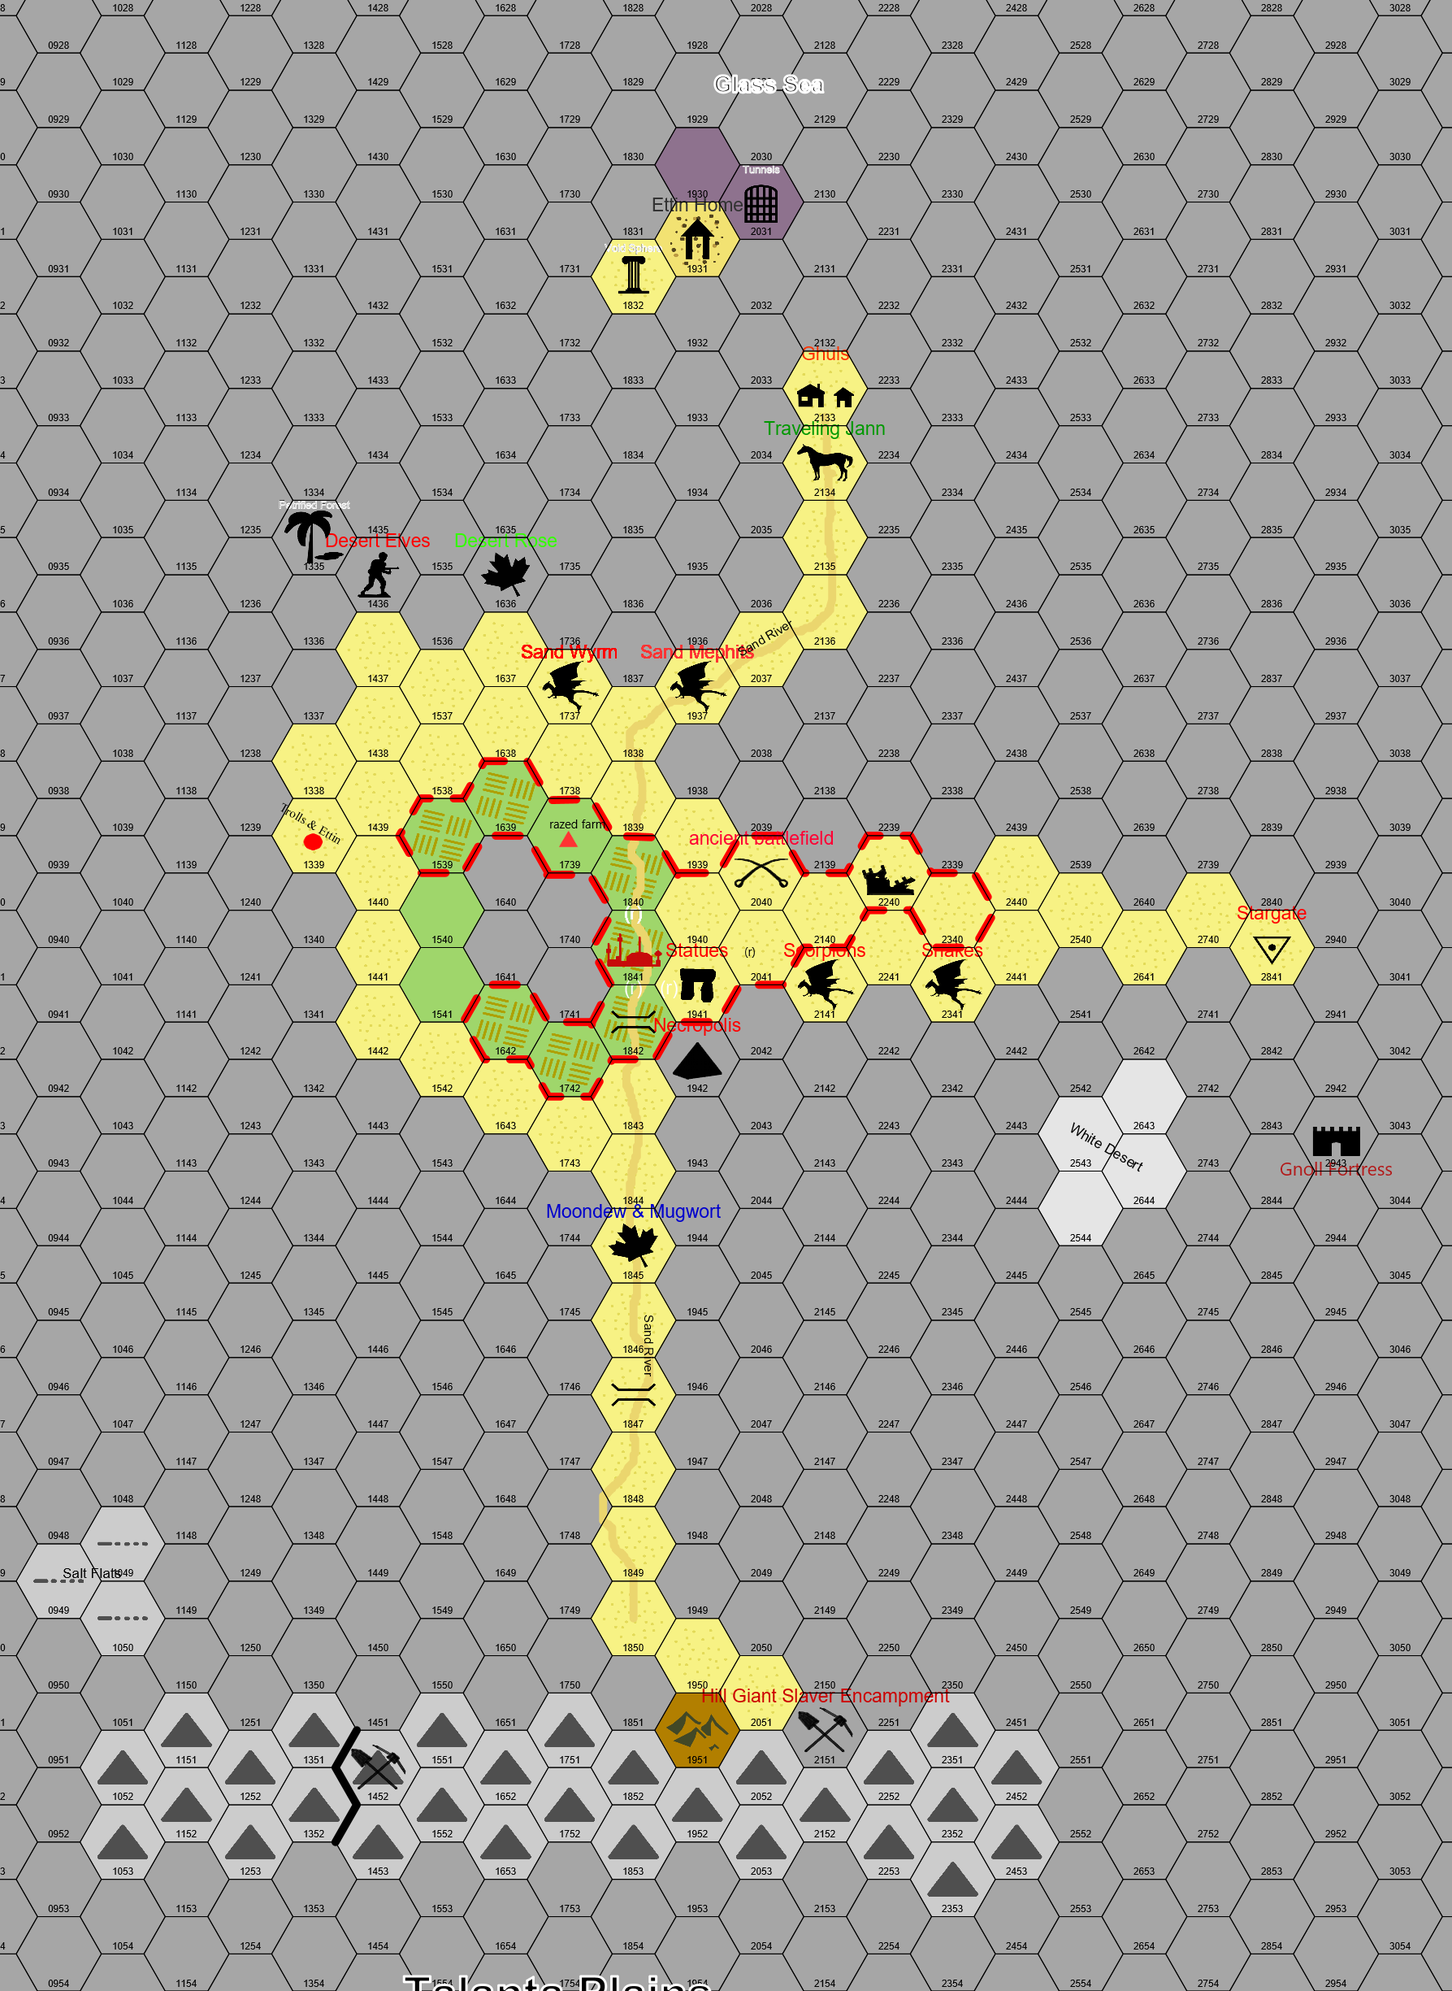
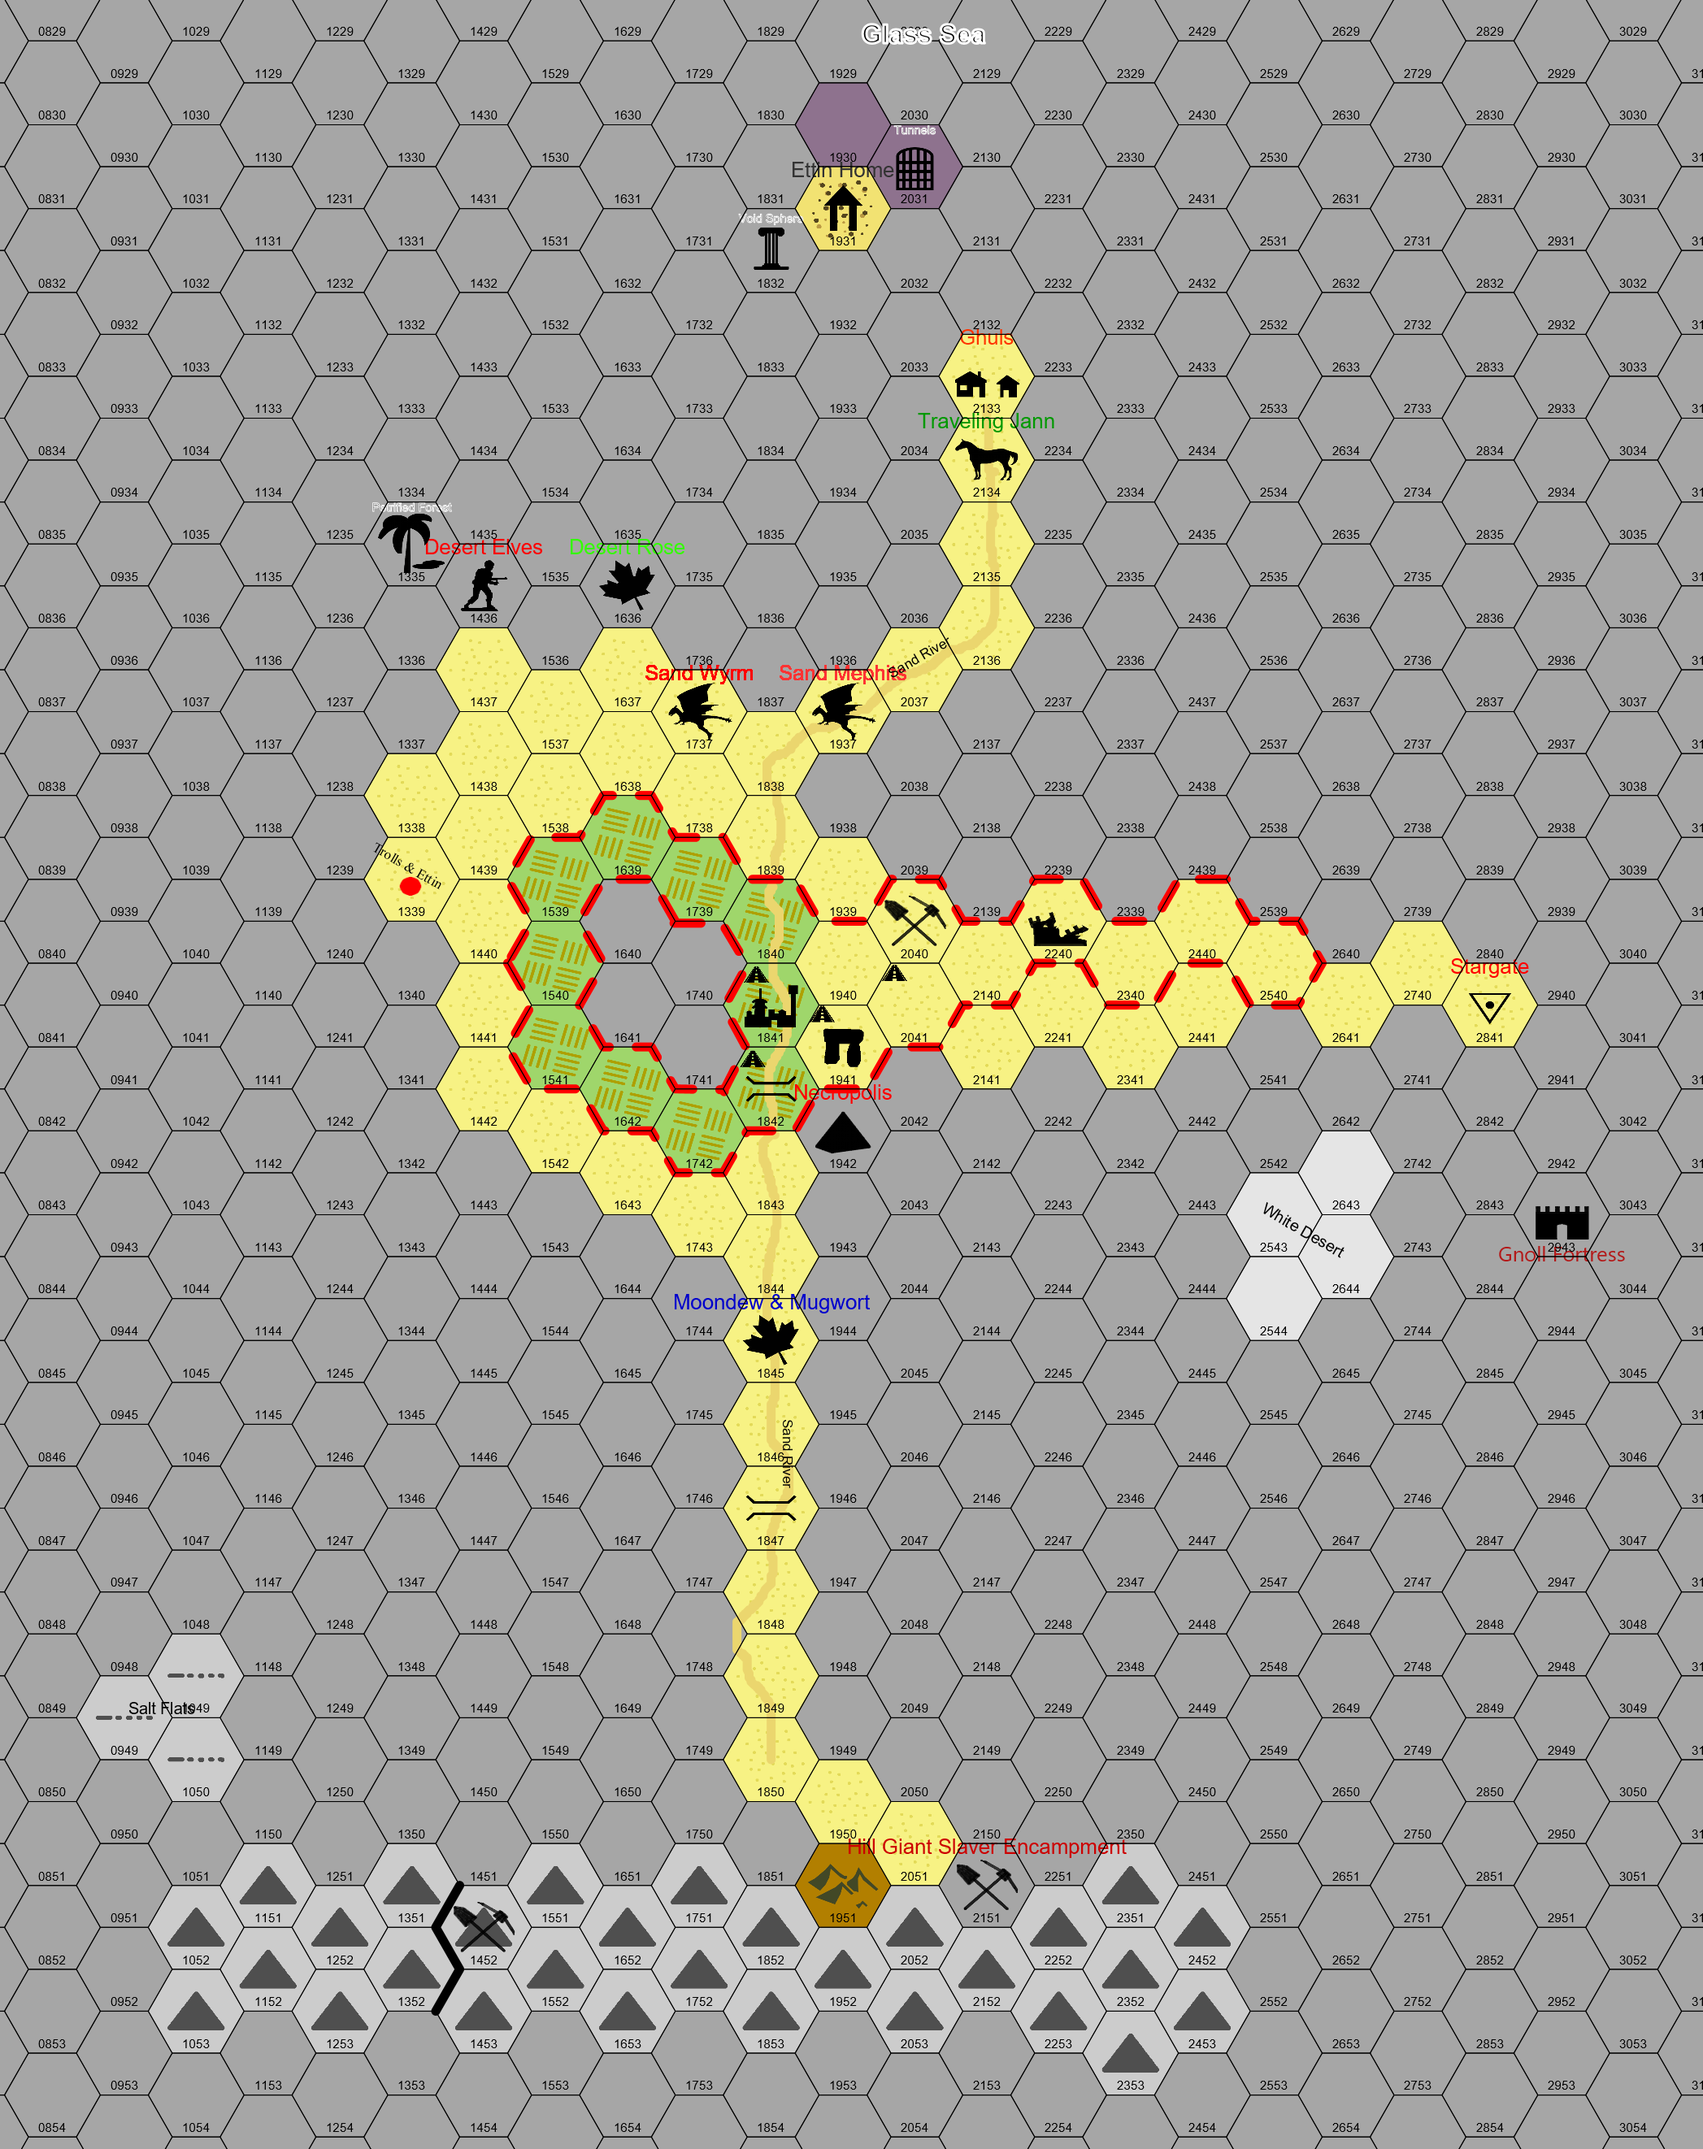
Kingdom Turn 6 & 7 completed

Changed region(s): [[0.0, 0.0, 1.0, 1.0]]

diff --git a/README.md b/README.md
@@ -1,3 +1,41 @@
+__**Kingdom Turn 7 Summary**__\
+_Claimed Hexes:_\
+1541, 2540\
+_Hex Improvements:_\
+Farm: 1541\
+Mine: 2040\
+\
+_Settlement Improvements:_\
+Capital: house (free), legendary tavern (2/2), inn (2/2)\
+_Event_
+Feud: [Failed Loyalty Check] Corruption increases by 1, Unrest increases by 5, check again next month.\
+\
+Available Magic Item Slots:\
+minor (2): Scroll of Bull's Strength (CL3), Potion of Owl's Wisdom \
+_Current Treasury:_\
+16 BP\
+\
+\
+\
+__**Kingdom Turn 6 Summary**__\
+_Claimed Hexes:_\
+2240, 1540\
+_Hex Improvements:_\
+farm (rebuild): 1739\
+farm: 1540\
+_Settlement Improvements:_\
+Capital: house (free), legendary tavern (1/2), inn (1/2)\
+_Event_
+Inquisition (ongoing [2 success]): modifiers suppressed for this turn\
+Food Shortage [stability roll success]: Consumption increased by 50% for turn 7\
+\
+Available Magic Item Slots:\
+minor (2): Scroll of Bull's Strength (CL3), Potion of Owl's Wisdom \
+_Current Treasury:_\
+22 BP\
+\
+\
+\
 __**KIngdom Turn 5 Summary**__\
 _Claimed Hexes:_\
 1539, 1642, 1940, 2340\
